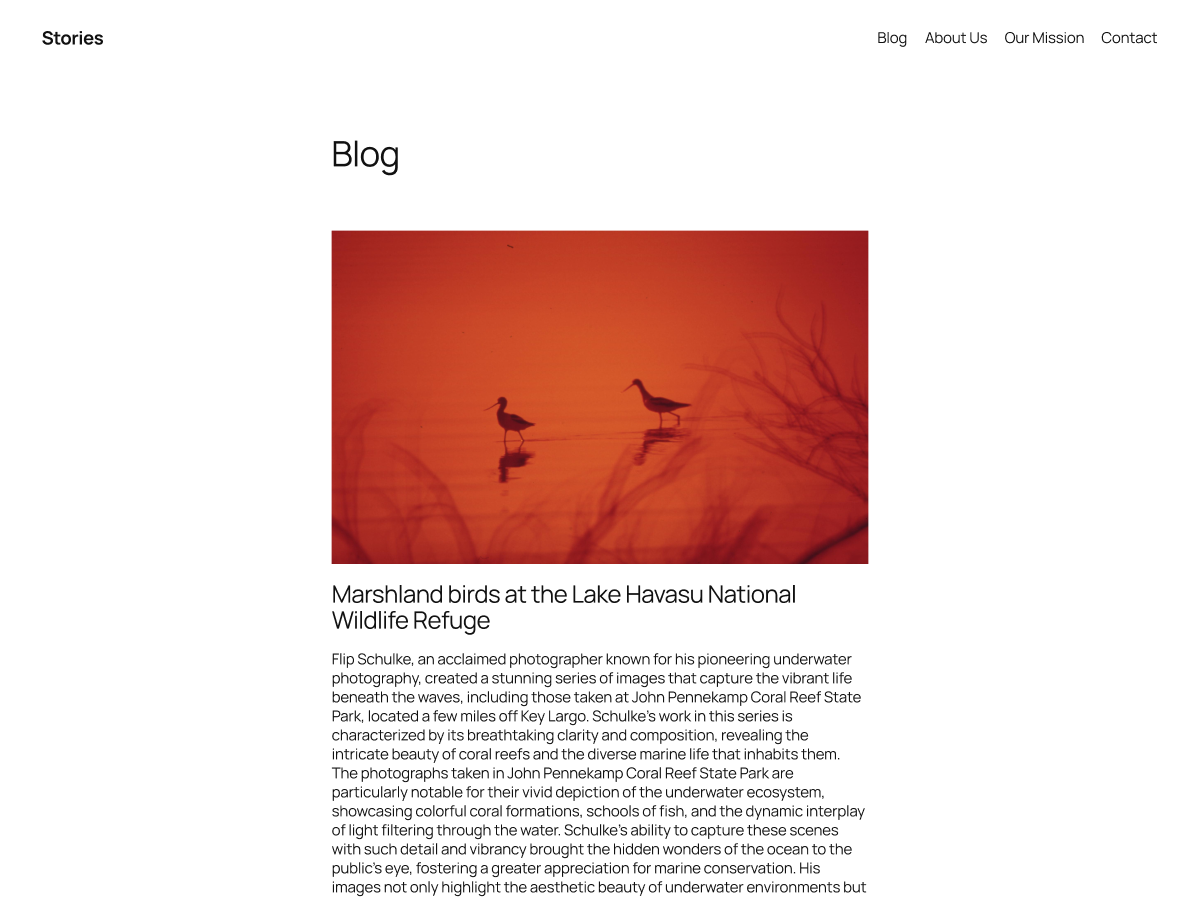
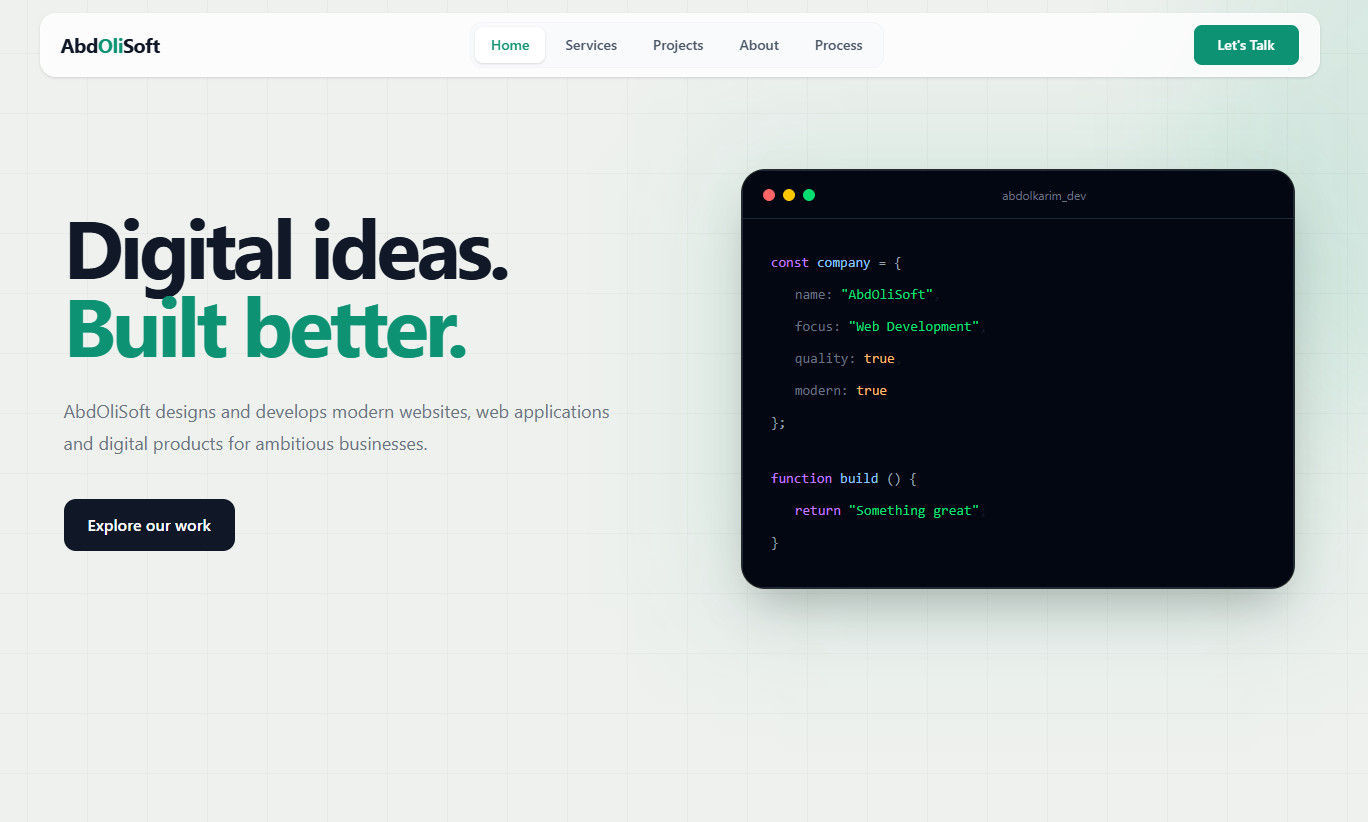
feat: add menu for site

diff --git a/inc/setup.php b/inc/setup.php
@@ -3,14 +3,11 @@
 add_action('after_setup_theme', 'ahel_theme_setup');
 function ahel_theme_setup()
 {
-  // افزودن منو فهرست به سایت 
   register_nav_menus([
-    'primary' => 'منوی اصلی',
+    'primary' => ' Main Menu',
   ]);
-
-
-  //افزودن نوشته گزینه «تصویر شاخص»
   add_theme_support('post-thumbnails');
 }
- // Hide admin bar on the frontend for all users
+
+// Hide admin bar on the frontend for all users
 add_filter('show_admin_bar', '__return_false');
